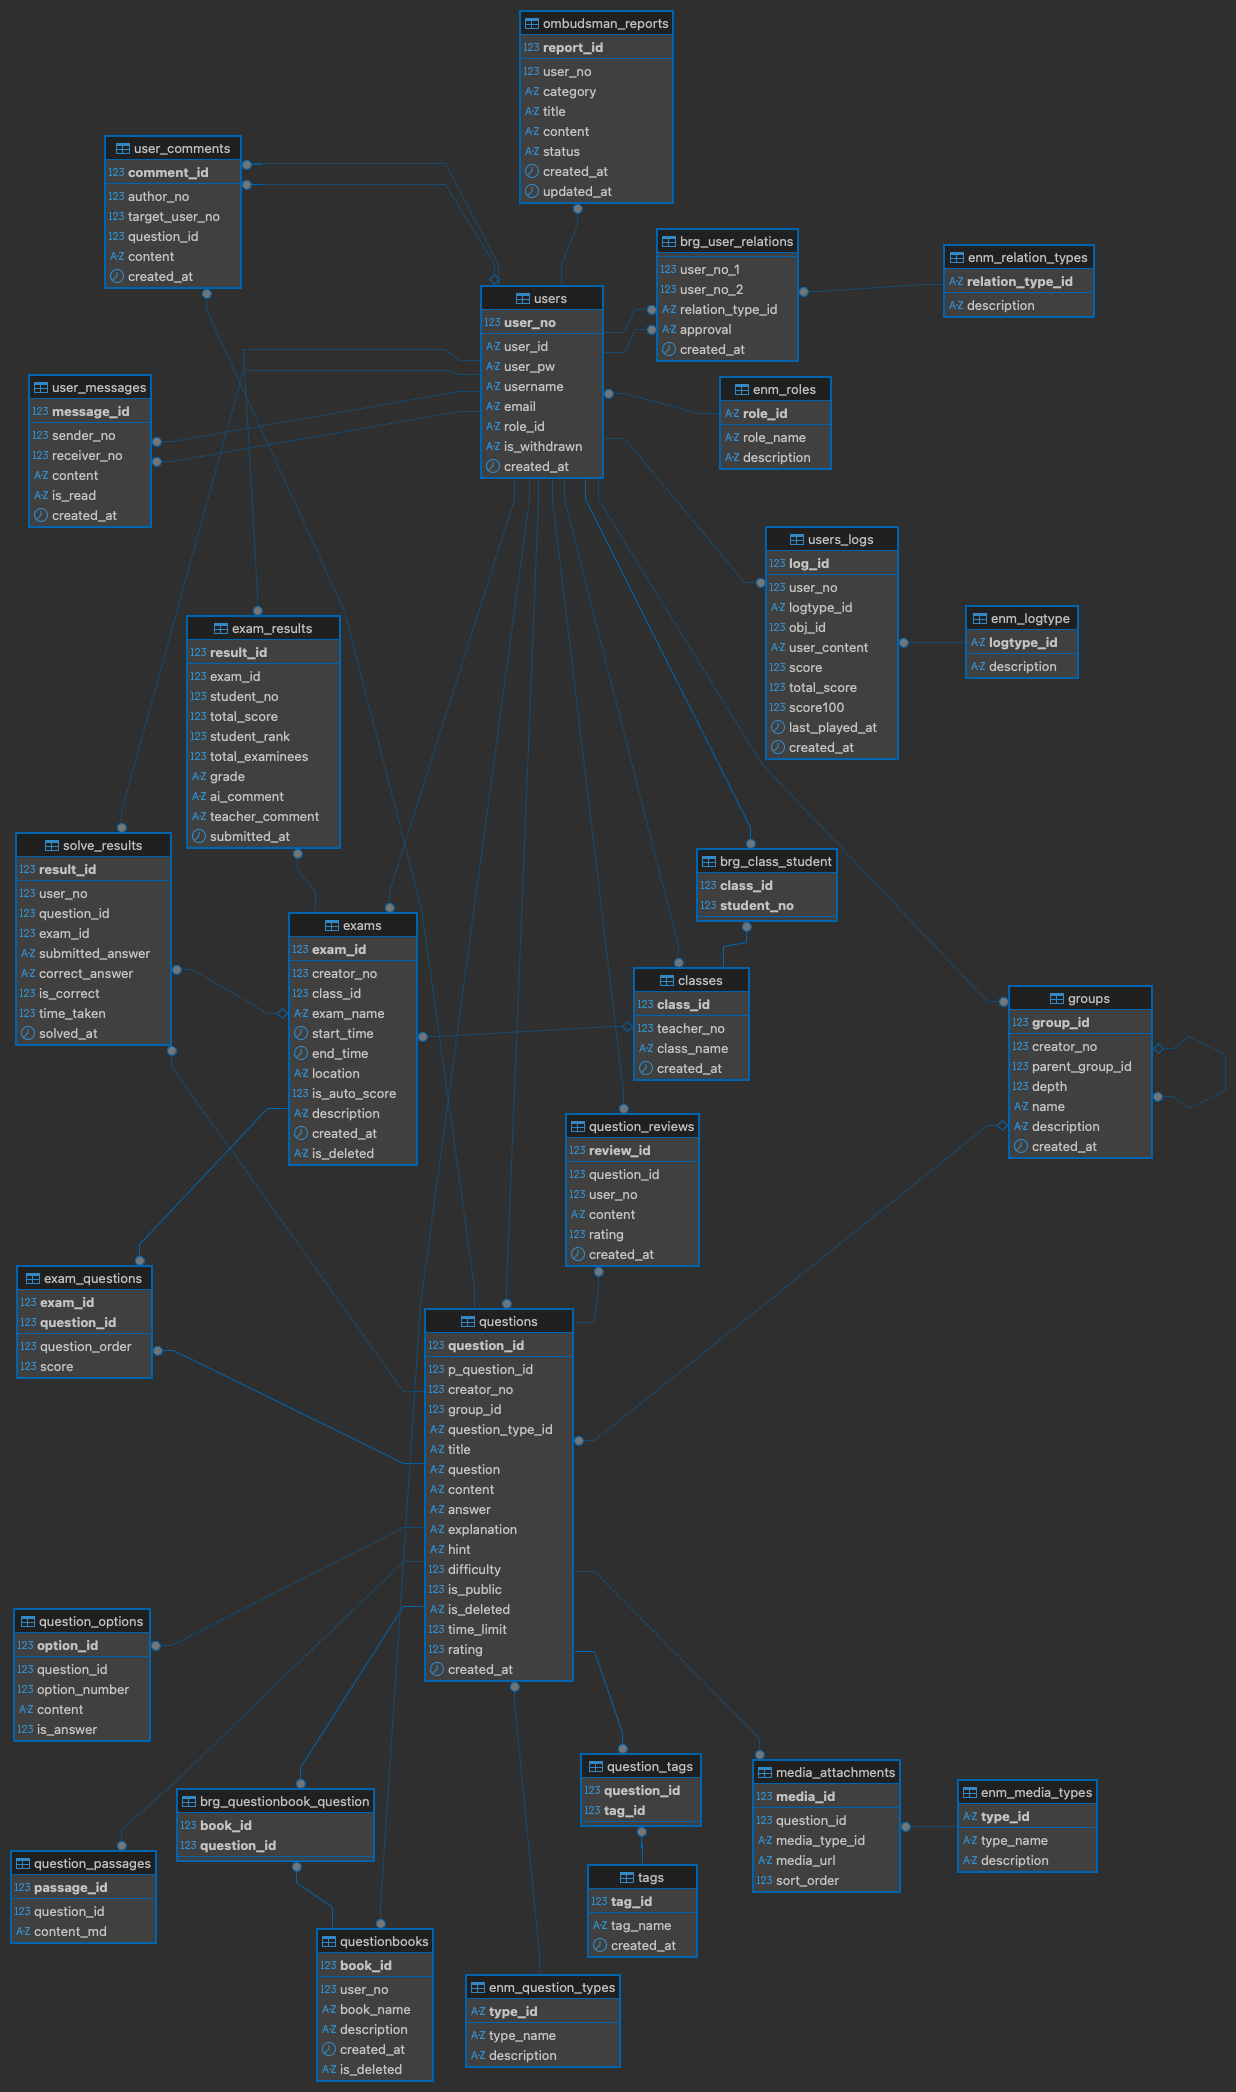
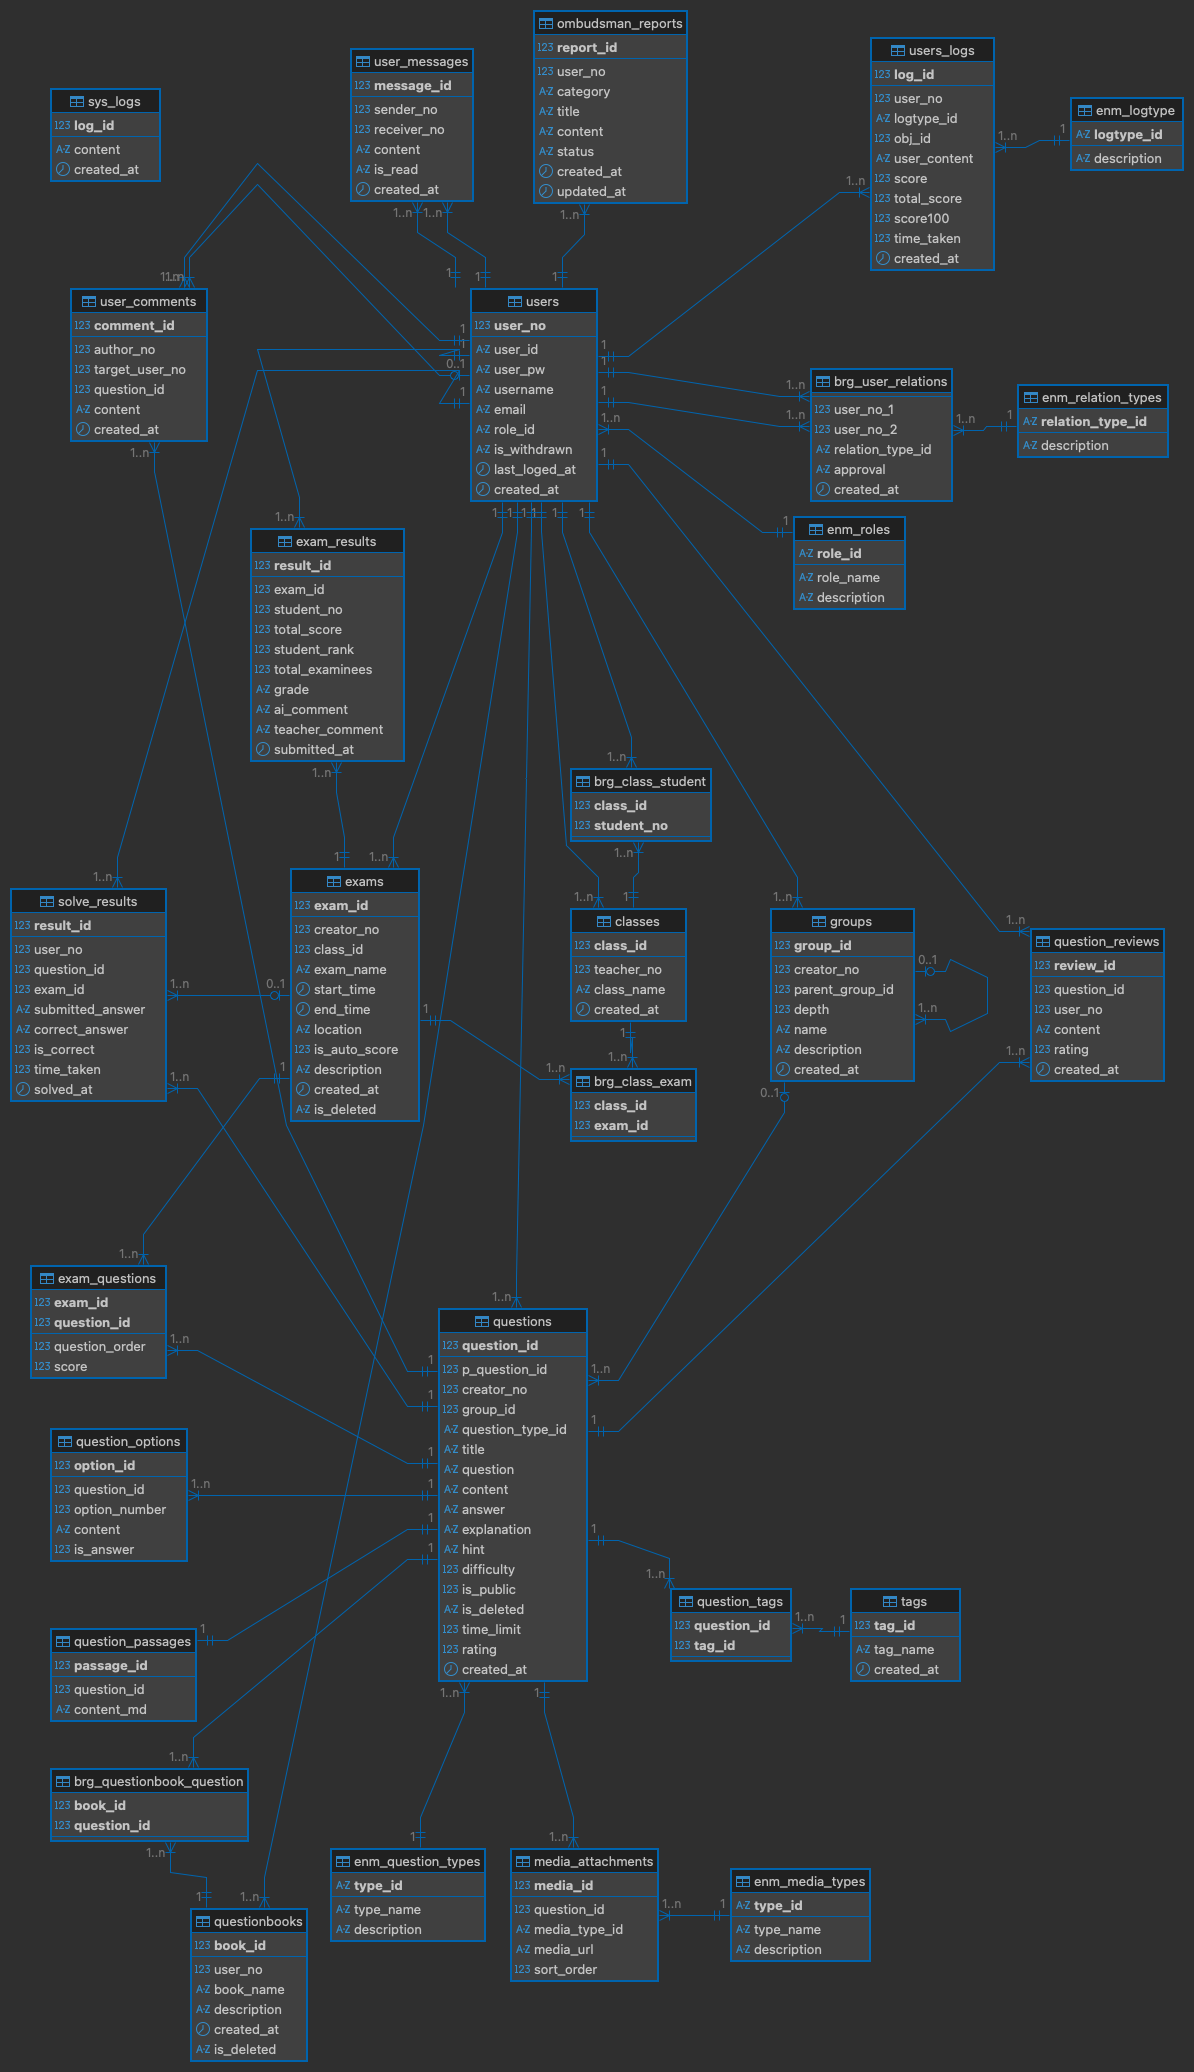
feat: add system log time display and refresh shortcut, implement auto-scaling ERD view, and exclude user logs from system log database insertion.

diff --git a/_Client/pages/Dashboard.vue b/_Client/pages/Dashboard.vue
@@ -163,9 +163,43 @@ const currentSysLogCreatedAt = computed(() => {
   });
 });
 const latestSysLogRawTimestamp = computed(() => latestSysLog.value?.created_at || "");
+const latestSysLogTimeParts = computed(() => {
+  const raw = latestSysLog.value?.created_at;
+  if (!raw) return null;
+  const normalized = raw.includes("T") ? raw : raw.replace(" ", "T");
+  // console.log("normalized -- ", normalized);
+
+  const match = raw.match(/(\d{4})-(\d{2})-(\d{2})T(\d{2}):(\d{2}):(\d{2})/);
+  if (!match) return null;
+  // console.log("match -- ", match);
+
+  return {
+    year:  match[1],   // 2026
+    month: match[2],   // 04   ← 여기서 06이 나오길 원하셨던 부분
+    day:   match[3],   // 06
+    hour:  match[4],   // 21
+    minute:match[5],   // 03
+    second:match[6],   // 13
+  };
+});
 
 const refreshSysLogs = () => {
   fetchSysLogs();
+};
+
+const handleRefreshClick = () => {
+  sysLogPage.value = 1;
+  sysLogSlider.value = 1;
+  fetchSysLogs();
+};
+
+const handleSysLogHotkey = (event: KeyboardEvent) => {
+  const isRefreshShortcut =
+    (event.ctrlKey || event.metaKey) && event.key.toLowerCase() === "r";
+  if (isRefreshShortcut && activeTab.value === "sys-logs") {
+    event.preventDefault();
+    handleRefreshClick();
+  }
 };
 
 const applySysLogSearch = () => {
@@ -487,11 +521,13 @@ onMounted(() => {
     showCursor.value = !showCursor.value;
   }, 500);
   typePhrase();
+  window.addEventListener("keydown", handleSysLogHotkey);
 });
 
 onUnmounted(() => {
   isTypingActive.value = false;
   if (cursorInterval) clearInterval(cursorInterval);
+  window.removeEventListener("keydown", handleSysLogHotkey);
 });
 </script>
 
@@ -663,35 +699,36 @@ onUnmounted(() => {
           <section class="sys-log-panel">
             <div class="sys-log-controls">
               <div class="sys-log-search">
+                <span class="meta-item time-chips" v-if="latestSysLogTimeParts">
+                  {{ latestSysLogTimeParts.hour }}
+                  <strong>:</strong>
+                  {{ latestSysLogTimeParts.minute }}
+                  <strong>:</strong>
+                  {{ latestSysLogTimeParts.second }}
+                </span>
+                <button class="btn-refresh" @click="handleRefreshClick">
+                  새로고침(cmd/ctrl+r)
+                </button>
                 <input
                   v-model="sysLogSearchInput"
                   type="text"
                   placeholder="검색어 입력 (content 기준)"
                   @keyup.enter="applySysLogSearch"
-                />
-                <button class="btn-search-highlight" @click="applySysLogSearch">
-                  검색
-                </button>
-                <button class="btn-refresh" @click="refreshSysLogs">
-                  새로고침
-                </button>
+                />                
                 <button
                   v-if="sysLogSearchQuery"
                   class="btn-reset-search"
                   @click="clearSysLogSearch">
                   초기화
                 </button>
+                <button class="btn-search-highlight" @click="applySysLogSearch">
+                  검색
+                </button>
               </div>
               <div class="sys-log-meta">
                 <span class="meta-item">
                   {{ sysLogPage }} / {{ sysLogTotalPages }} 페이지
-                </span>
-                <span class="meta-item" v-if="currentSysLogCreatedAt">
-                  생성: {{ currentSysLogCreatedAt }}
-                </span>
-                <span class="meta-item raw" v-if="latestSysLogRawTimestamp">
-                  raw: {{ latestSysLogRawTimestamp }}
-                </span>
+                </span>                
               </div>
             </div>
             <div class="sys-log-textarea">
@@ -960,7 +997,7 @@ onUnmounted(() => {
 .sys-log-panel {
   background: rgba(15, 23, 42, 0.6);
   border: 1px solid rgba(148, 163, 184, 0.3);
-  border-radius: 16px;
+  border-radius: 10px;
   padding: 1.25rem;
   display: flex;
   flex-direction: column;
@@ -1015,6 +1052,19 @@ onUnmounted(() => {
   color: #c7d2fe;
   font-size: 0.9rem;
 }
+.sys-log-meta .time-chips {
+  font-size: 0.85rem;
+  letter-spacing: 0;
+  color: #a5b4fc;
+  display: inline-flex;
+  align-items: center;
+  gap: 0.15rem;
+}
+.sys-log-meta .time-chips strong {
+  font-size: 0.85rem;
+  font-weight: 700;
+  color: #f8fafc;
+}
 .sys-log-meta .raw {
   color: #94a3b8;
   font-size: 0.75rem;
@@ -1025,7 +1075,7 @@ onUnmounted(() => {
   flex: 1;
   min-height: 360px;
   background: rgba(15, 23, 42, 0.92);
-  border-radius: 14px;
+  border-radius: 10px;
   border: 1px solid rgba(148, 163, 184, 0.35);
   box-sizing: border-box;
   padding: 1rem;
@@ -1048,14 +1098,24 @@ onUnmounted(() => {
   overflow: auto;
 }
 
-.btn-refresh {
-  background: rgba(99, 102, 241, 0.15);
-  border: 1px solid rgba(99, 102, 241, 0.6);
+.btn-refresh,
+.btn-reset-search,
+.btn-search-highlight {
+  background: transparent;
+  border: 1px solid rgba(148, 163, 184, 0.35);
   color: #c7d2fe;
   border-radius: 8px;
   padding: 0.45rem 0.9rem;
   cursor: pointer;
   font-weight: 600;
+  transition: background 0.2s ease, border-color 0.2s ease;
+}
+
+.btn-refresh:hover,
+.btn-reset-search:hover,
+.btn-search-highlight:hover {
+  background: rgba(148, 163, 184, 0.15);
+  border-color: rgba(148, 163, 184, 0.6);
 }
 
 .sys-log-pagination {
@@ -1063,6 +1123,18 @@ onUnmounted(() => {
   justify-content: flex-end;
   align-items: center;
   gap: 1rem;
+  border: 1px solid rgba(148, 163, 184, 0.2);
+  border-radius: 10px;
+  padding: 0.45rem 0.65rem;
+  transition: border-color 0.2s ease;
+}
+
+.sys-log-pagination:hover {
+  border-color: rgba(148, 163, 184, 0.6);
+}
+
+.sys-log-pagination .page-info {
+  font-weight: 600;
 }
 
 .dashboard-tabs button:focus-visible {
@@ -1084,7 +1156,7 @@ onUnmounted(() => {
 .class-list-panel {
   margin-top: 1.75rem;
   padding: 1.2rem;
-  border-radius: 14px;
+  border-radius: 10px;
   border: 1px solid rgba(129, 140, 248, 0.18);
   background: rgba(15, 23, 42, 0.35);
 }
@@ -1124,7 +1196,7 @@ onUnmounted(() => {
 
 .class-card {
   padding: 1rem 1.05rem;
-  border-radius: 12px;
+  border-radius: 10px;
   border: 1px solid rgba(148, 163, 184, 0.14);
   background: rgba(30, 41, 59, 0.72);
 }

diff --git a/_Client/pages/index.vue b/_Client/pages/index.vue
@@ -1,5 +1,5 @@
 <script setup lang="ts">
-import { ref, onMounted, onUnmounted, computed } from "vue";
+import { ref, onMounted, onUnmounted, computed, nextTick, watch } from "vue";
 import type { QuestionListResponse } from "~/types";
 import LatexRenderer from "~/components/LatexRenderer.vue";
 import DailyQuestionsModal from "~/components/DailyQuestionsModal.vue";
@@ -41,18 +41,43 @@ const showManual = ref(false);
 const manualPdfSrc = manualPdfUrl;
 const manualActiveTab = ref<"pdf" | "erd" | "github">("pdf");
 
+watch(manualActiveTab, (value) => {
+  if (value === "erd") {
+    nextTick(() => fitErdToWidth());
+  }
+});
+
 const erdScale = ref(1);
 const erdPanX = ref(0);
 const erdPanY = ref(0);
+const erdContainerRef = ref<HTMLElement | null>(null);
+const erdImageRef = ref<HTMLImageElement | null>(null);
 let isDraggingErd = false;
 let startX = 0;
 let startY = 0;
 
+const fitErdToWidth = () => {
+  const container = erdContainerRef.value;
+  const image = erdImageRef.value;
+  if (!container || !image) return;
+  const containerWidth = container.clientWidth || container.getBoundingClientRect().width;
+  const imageWidth = image.naturalWidth || image.width;
+  if (!imageWidth || !containerWidth) return;
+  const targetScale = containerWidth / imageWidth;
+  if (Number.isFinite(targetScale)) {
+    erdScale.value = targetScale;
+    erdPanX.value = 0;
+    erdPanY.value = 0;
+  }
+};
+
 function resetErdZoom() {
-  erdScale.value = 1;
-  erdPanX.value = 0;
-  erdPanY.value = 0;
+  fitErdToWidth();
 }
+
+const handleErdResize = () => {
+  fitErdToWidth();
+};
 
 function handleErdWheel(e: WheelEvent) {
   if (manualActiveTab.value !== "erd") return;
@@ -129,9 +154,13 @@ function onKeydown(e: KeyboardEvent) {
 onMounted(() => {
   currentRootUrl.value = window.location.origin;
   window.addEventListener("keydown", onKeydown);
+  window.addEventListener("resize", handleErdResize);
 });
 
-onUnmounted(() => window.removeEventListener("keydown", onKeydown));
+onUnmounted(() => {
+  window.removeEventListener("keydown", onKeydown);
+  window.removeEventListener("resize", handleErdResize);
+});
 
 // 타이핑 애니메이션
 const typedText = ref("");
@@ -944,18 +973,21 @@ onMounted(() => {
             <div
               v-show="manualActiveTab === 'erd'"
               class="erd-container"
+              ref="erdContainerRef"
               @wheel="handleErdWheel"
               @mousedown="handleErdMousedown"
               @mousemove="handleErdMousemove"
               @mouseup="handleErdMouseup"
               @mouseleave="handleErdMouseleave">
               <img
+                ref="erdImageRef"
                 :src="erdImgUrl"
                 class="erd-img"
                 :style="{
                   transform: `translate(${erdPanX}px, ${erdPanY}px) scale(${erdScale})`,
                 }"
                 draggable="false"
+                @load="fitErdToWidth"
               />
               <button
                 class="erd-reset-btn"

diff --git a/_Server/src/main.ts b/_Server/src/main.ts
@@ -371,7 +371,10 @@ async function bootstrap() {
           const logContent = logHeader + logReqData + logResData;
 
           appendFileSync(logPath, logContent);
-          if (!logHeader.includes('/api/sys-logs')) {
+          if (
+            !logHeader.includes('/api/sys-logs') &&
+            !logHeader.includes('/api/user-logs')
+          ) {
             const now = new Date();
             const local = new Date(now.getTime() - now.getTimezoneOffset() * 60000);
             const createdAt = local
@@ -382,7 +385,7 @@ async function bootstrap() {
               .$executeRaw(
                 Prisma.sql`INSERT INTO sys_logs (content, created_at) VALUES (${logContent}, ${createdAt})`,
               )
-              .catch(() => {});
+              .catch(() => { });
           }
         } catch { }
 
